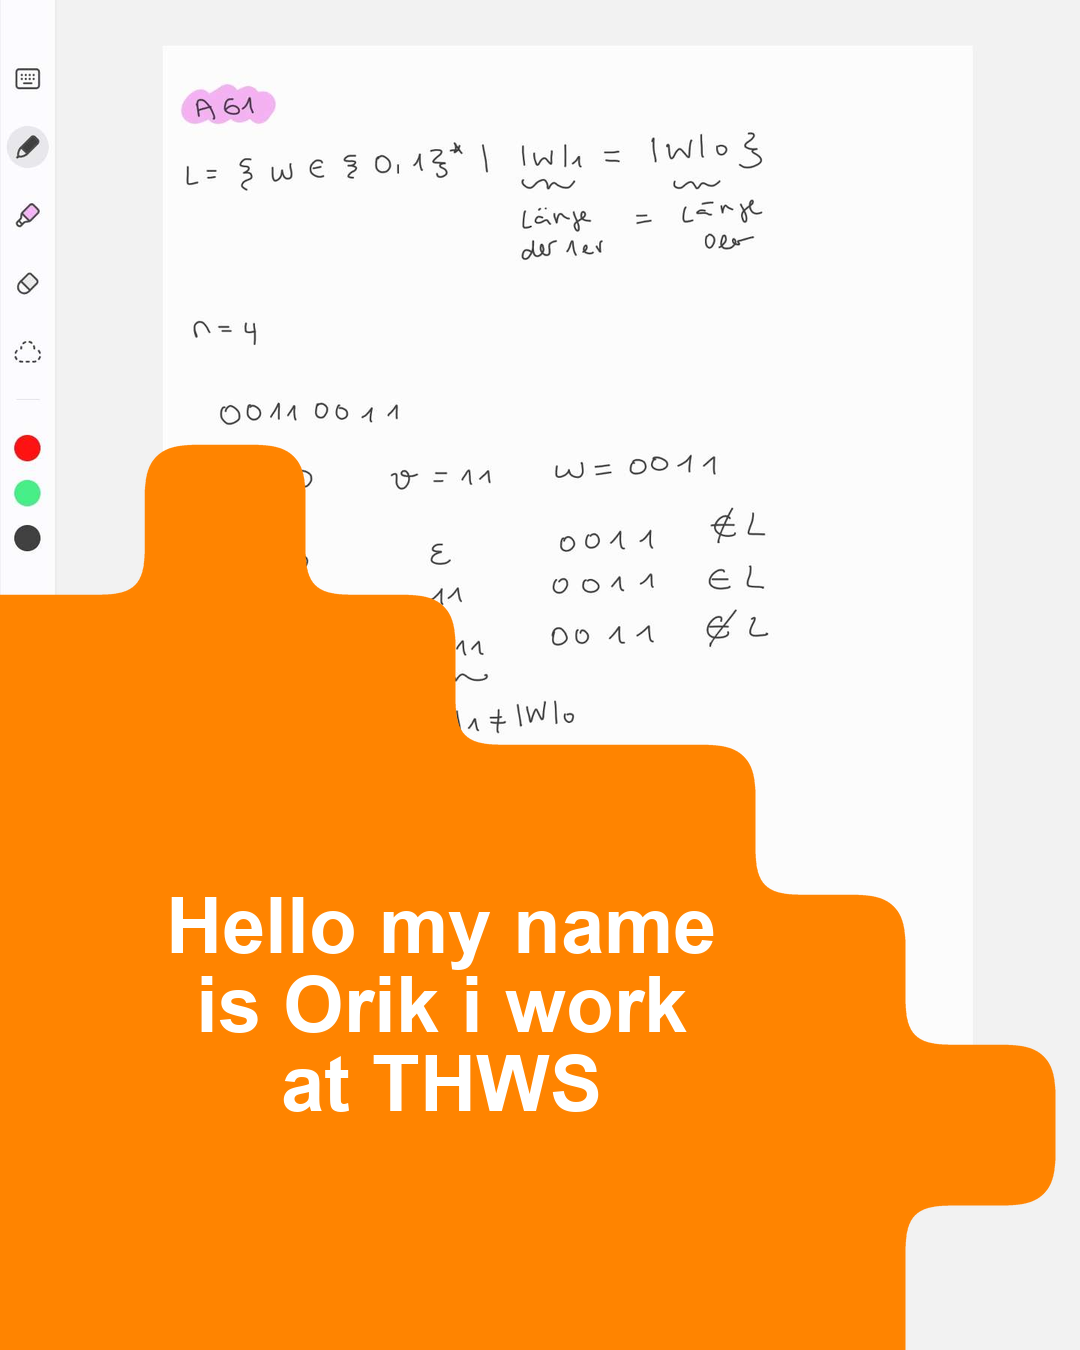
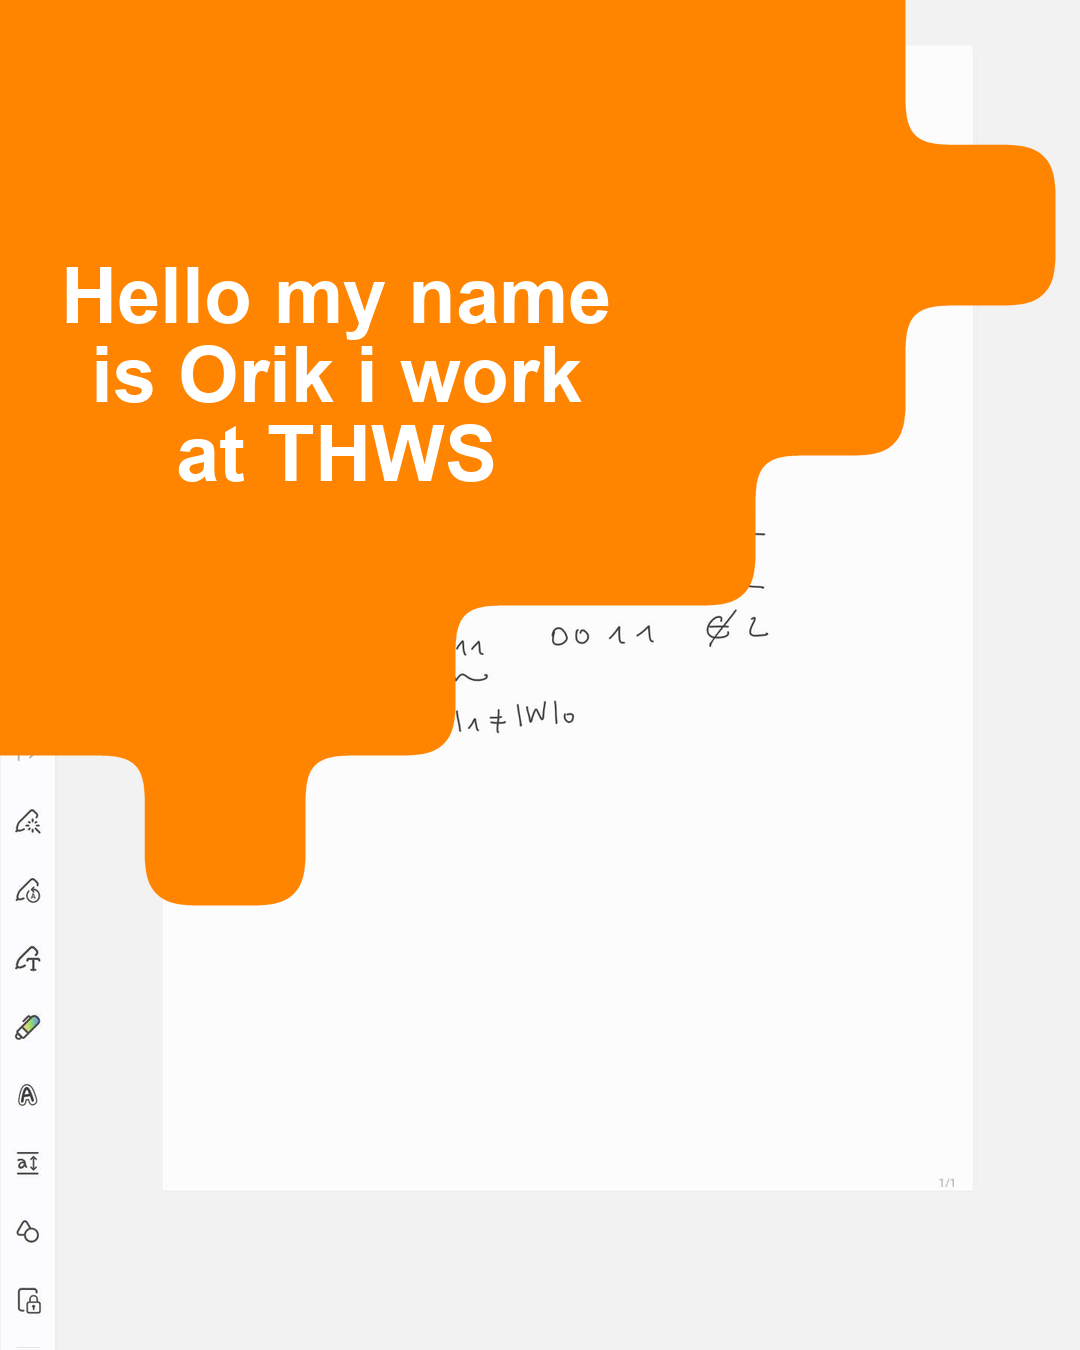
Added comments to composition.py, mask.py, post_generator.py, textrenderer.py, transform.py, app.py, config.py

diff --git a/src/post_generator/services/textrenderer.py b/src/post_generator/services/textrenderer.py
@@ -23,7 +23,7 @@ class TextRenderer:
             test_line = current_line + " " + word if current_line else word
 
             # smaller line width so text breaks earlier
-            if len(test_line) > 14:
+            if len(test_line) > 14:                             # 14 chars fits the overlay width at fant size 78 ; change this if you change the font size
                 if current_line:
                     lines.append(current_line)
                 current_line = word
@@ -53,6 +53,7 @@ class TextRenderer:
 
         mask_w = right - left
         mask_h = bottom - top
+        #nudge text away from the pointed corner of the shape - each position is slightly different because the shape isn't symmetric
         if position == "top-left":
             bias_x = mask_w * -0.18
         elif position == "top-right":
@@ -63,7 +64,7 @@ class TextRenderer:
             bias_x = mask_w * 0.08
         else:
             bias_x = 0
-        bias_y = mask_h * 0.10 * (1 if "bottom" in position else -1 if "top" in position else 0)
+        bias_y = mask_h * 0.10 * (1 if "bottom" in position else -1 if "top" in position else 0)      # shift text toward the center of the shape vertically
 
         img_w, img_h = image.size
         x = cx - text_w / 2 + bias_x + x_offset

diff --git a/src/post_generator/services/mask.py b/src/post_generator/services/mask.py
@@ -2,6 +2,7 @@ from PIL import Image, ImageDraw, ImageFilter
 
 
 def build_smooth_mask(size, cells, cell, offset):
+    # draw at 4x resolution then shrink, so edges come out smooth
     scale = 4
     big_size = (size[0] * scale, size[1] * scale)
     mask = Image.new("L", big_size, 0)
@@ -18,7 +19,7 @@ def build_smooth_mask(size, cells, cell, offset):
             fill=255,
         )
 
-    blur_radius = max(8, big_cell // 8)
-    mask = mask.filter(ImageFilter.GaussianBlur(radius=blur_radius))
+    blur_radius = max(8, big_cell // 8)                                      # blur first to soften the hard cell edges
+    mask = mask.filter(ImageFilter.GaussianBlur(radius=blur_radius))        # re-threshold after blur - keeps corners smooth but edges sharp
     mask = mask.point(lambda p: 255 if p > 100 else 0)
     return mask.resize(size, Image.LANCZOS)

diff --git a/src/post_generator/services/transform.py b/src/post_generator/services/transform.py
@@ -9,7 +9,7 @@ def choose_position(position: str, rng: random.Random) -> str:
         return position
     return rng.choice(["top-left", "top-right", "bottom-left", "bottom-right"])
 
-
+# flips cell coordinates within the grid - used to place the same shape in any corner
 def mirror_cells(cells, width, height, horizontal=False, vertical=False):
     out = []
     for x, y in cells:
@@ -28,7 +28,7 @@ def transform_for_position(cells, width, height, position):
         return mirror_cells(cells, width, height, vertical=True)
     return mirror_cells(cells, width, height, horizontal=True, vertical=True)
 
-
+# returns the pixel (x, y) where the top-left of the shape grid should be places so it sits flush in the chosen corner
 def anchor_offset(template_w, template_h, cell, position):
     shape_w = template_w * cell
     shape_h = template_h * cell

diff --git a/src/post_generator/app.py b/src/post_generator/app.py
@@ -7,7 +7,7 @@ from .services import composition, mask, transform
 from .services.textrenderer import TextRenderer
 from .services.post_generator import crop_to_4_5, template_to_grid, grid_to_cells, BASE_TEMPLATE, CELL_SIZE
 
-
+# pipeline: crop photo -> resolve position -> build cell grid -> mirror for corner -> generate mask -> compose with orange -> render text -> save
 def generate_post(config: Config):
     bg = Image.open(Path(config.photo)).convert("RGBA")
     bg = crop_to_4_5(bg)

diff --git a/src/post_generator/services/composition.py b/src/post_generator/services/composition.py
@@ -1,9 +1,9 @@
 from pathlib import Path
 from PIL import Image
 
-ORANGE = (255, 132, 0, 255)
+ORANGE = (255, 132, 0, 255)         # THWS Brand Color
 
-
+# wherever the mask is white, show oragnge; elsewhere show the photo
 def compose(bg: Image.Image, mask: Image.Image) -> Image.Image:
     orange = Image.new("RGBA", bg.size, ORANGE)
     return Image.composite(orange, bg, mask)

diff --git a/src/post_generator/services/post_generator.py b/src/post_generator/services/post_generator.py
@@ -3,8 +3,10 @@ from PIL import Image, UnidentifiedImageError
 
 INSTAGRAM_WIDTH = 1080
 INSTAGRAM_HEIGHT = 1350
+# each cell is 150px - 1080 divides into exactly 7.2 of thesem, 1035 into 9
 CELL_SIZE = 150
 
+# the shape of the overlay - 1 = filled cell, 0 = empty. top-left corner variant ; other corners are derived by mirroring
 BASE_TEMPLATE = [
     "1111110",
     "1111111",

diff --git a/src/post_generator/config.py b/src/post_generator/config.py
@@ -7,7 +7,7 @@ class Config:
     photo: str
     position: str
     text: str
-    x: int
+    x: int          # pixel offsets from the auto-calculated text center
     y: int
     output_path: Optional[str] = None
     output_name: str = "output.png"
